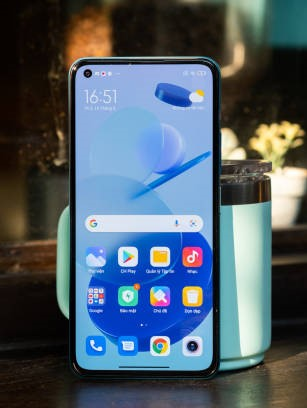
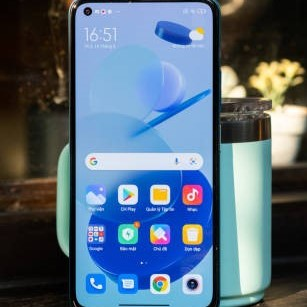
images resizing

diff --git a/css/product-list.css b/css/product-list.css
@@ -8,7 +8,7 @@ main {
 
 img{
     width: 100%;
-    max-height: 300px;
+    /* max-height: 300px; */
     display: block;
 }
 
